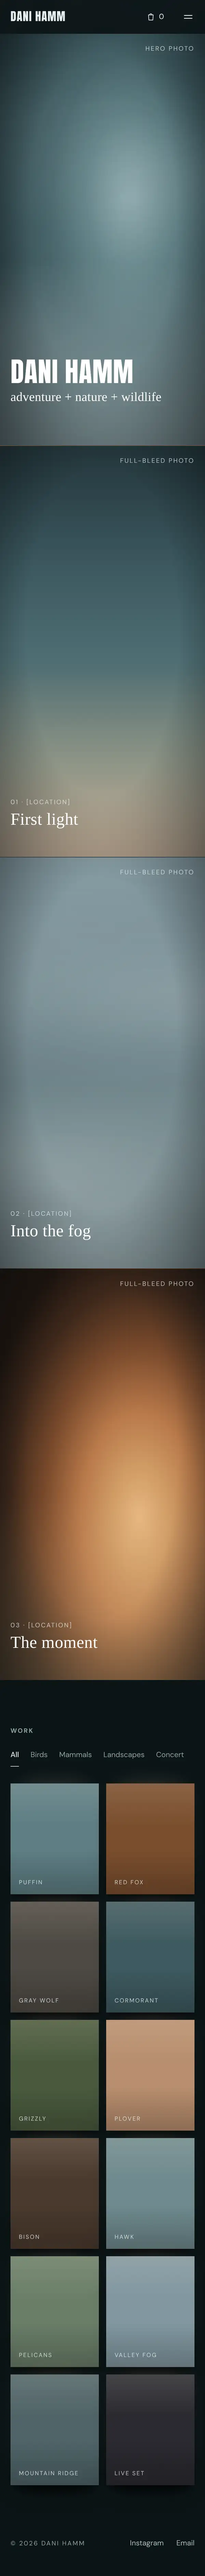
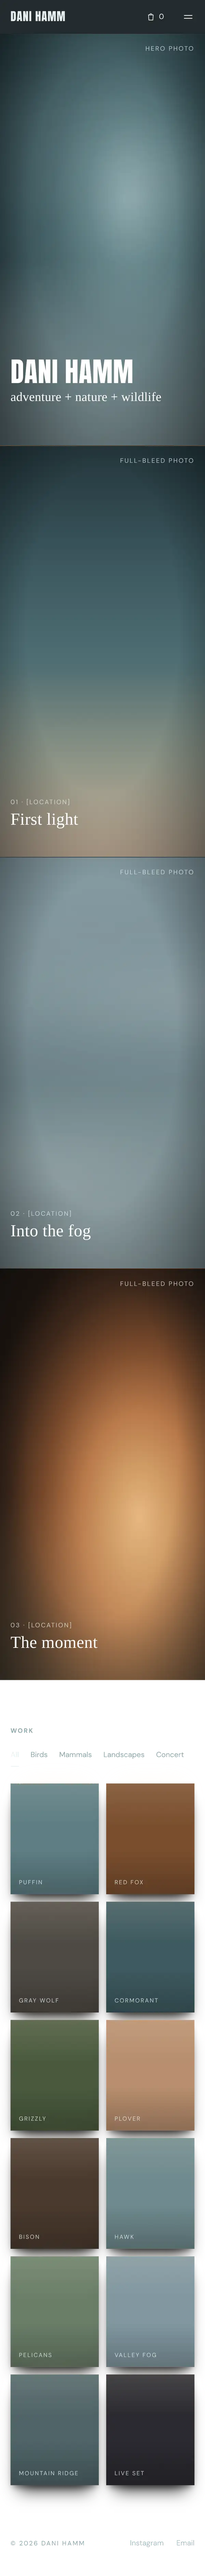
Keep Dani Hamm's fixed background in place in previews
Her site's fog/light background is fixed behind the page, but a single
full-page screenshot only caught it once, so in the preview it scrolled
away and cut off. Now the background is captured on its own and each
page is captured with a see-through background; the preview window,
grid tiles and hero hold the background still while the page scrolls.

Claude-Session: https://claude.ai/code/session_01S1GkKjA7JTsXNm3XxvC6Wo

Changed region(s): [[0.0, 0.6542, 1.0, 1.0]]

diff --git a/index.html b/index.html
@@ -9,12 +9,12 @@
 <meta property="og:url" content="https://b0to1q.github.io/BRANDED-BY-G/">
 <meta property="og:title" content="Branded by G">
 <meta property="og:description" content="Websites for local businesses in Connecticut. Built right. Owned by you.">
-<meta property="og:image" content="https://b0to1q.github.io/BRANDED-BY-G/og.png?v=2">
+<meta property="og:image" content="https://b0to1q.github.io/BRANDED-BY-G/og.png?v=3">
 <meta property="og:image:width" content="1200">
 <meta property="og:image:height" content="630">
 <meta property="og:image:alt" content="Branded by G.">
 <meta name="twitter:card" content="summary_large_image">
-<meta name="twitter:image" content="https://b0to1q.github.io/BRANDED-BY-G/og.png?v=2">
+<meta name="twitter:image" content="https://b0to1q.github.io/BRANDED-BY-G/og.png?v=3">
 <meta name="theme-color" content="#2A2D2B">
 <link rel="preconnect" href="https://fonts.googleapis.com">
 <link rel="preconnect" href="https://fonts.gstatic.com" crossorigin>
@@ -151,6 +151,8 @@ dl.spec a{color:var(--c-acc)}
 .zframe .bar span{margin-left:10px;font-size:12px;color:#B5BABE;background:#33373B;border-radius:5px;padding:4px 12px;white-space:nowrap;overflow:hidden;text-overflow:ellipsis}
 .zvp{flex:1;min-height:0;overflow-y:auto;overscroll-behavior:contain;background:#fff;-webkit-overflow-scrolling:touch}
 .zvp img{display:block;width:100%;height:auto}
+.zvp{background-color:#fff;background-size:cover;background-position:center top;background-repeat:no-repeat}
+.shot.bgdani{background:#0B1416 url(img/v3/bg-dani-d.webp?v=3) center top/cover no-repeat}
 .zframe.phone{width:min(392px,100%);border-radius:34px;padding:4px}
 .zframe.phone .bar{display:none}
 .zframe.phone .zvp{border-radius:30px}
@@ -225,9 +227,9 @@ a:focus-visible{outline:3px solid var(--acc);outline-offset:3px;border-radius:4p
       <p class="where">George Blanchard Jr. · Plantsville, Connecticut</p>
     </div>
     <div class="stage" aria-hidden="true">
-      <div class="br s1"><div class="bar"><i></i><i></i><i></i><span>Hafele Landscaping &amp; Snow Removal</span></div><img src="img/v3/d-hafele-home.webp?v=2" alt=""></div>
-      <div class="br s2"><div class="bar"><i></i><i></i><i></i><span>Dani Hamm — Prints &amp; goods</span></div><img src="img/v3/d-dani-shop.webp?v=2" alt=""></div>
-      <div class="ph s3"><img src="img/v3/m-hafele-home.webp?v=2" alt=""></div>
+      <div class="br s1"><div class="bar"><i></i><i></i><i></i><span>Hafele Landscaping &amp; Snow Removal</span></div><img src="img/v3/d-hafele-home.webp?v=3" alt=""></div>
+      <div class="br s2"><div class="bar"><i></i><i></i><i></i><span>Dani Hamm — Prints &amp; goods</span></div><img src="img/v3/d-dani-shop.webp?v=3" alt="" style="background:#0B1416 url(img/v3/bg-dani-d.webp?v=3) center top/cover no-repeat"></div>
+      <div class="ph s3"><img src="img/v3/m-hafele-home.webp?v=3" alt=""></div>
     </div>
   </div>
 </section>
@@ -238,35 +240,35 @@ a:focus-visible{outline:3px solid var(--acc);outline-offset:3px;border-radius:4p
     <p class="sub">Every page of every site. Tap one to open it full size and scroll through it.</p>
     <div class="grid">
       <button class="tile" type="button" data-i="0" style="--t-bg:#1D3326;--t-ink:#F6F2E6;--t-acc:#CBB373" aria-label="Open Hafele Landscaping, Home page">
-        <span class="shot"><img src="img/v3/t-hafele-home.webp?v=2" alt="" loading="lazy"></span>
+        <span class="shot"><img src="img/v3/t-hafele-home.webp?v=3" alt="" loading="lazy"></span>
         <span class="lbl"><span class="cl">Hafele Landscaping</span><span class="pg">Home</span></span>
       </button>
       <button class="tile" type="button" data-i="1" style="--t-bg:#1D3326;--t-ink:#F6F2E6;--t-acc:#CBB373" aria-label="Open Hafele Landscaping, Services page">
-        <span class="shot"><img src="img/v3/t-hafele-services.webp?v=2" alt="" loading="lazy"></span>
+        <span class="shot"><img src="img/v3/t-hafele-services.webp?v=3" alt="" loading="lazy"></span>
         <span class="lbl"><span class="cl">Hafele Landscaping</span><span class="pg">Services</span></span>
       </button>
       <button class="tile" type="button" data-i="2" style="--t-bg:#1D3326;--t-ink:#F6F2E6;--t-acc:#CBB373" aria-label="Open Hafele Landscaping, About &amp; contact page">
-        <span class="shot"><img src="img/v3/t-hafele-about.webp?v=2" alt="" loading="lazy"></span>
+        <span class="shot"><img src="img/v3/t-hafele-about.webp?v=3" alt="" loading="lazy"></span>
         <span class="lbl"><span class="cl">Hafele Landscaping</span><span class="pg">About &amp; contact</span></span>
       </button>
       <button class="tile" type="button" data-i="3" style="--t-bg:#121A1D;--t-ink:#E9EEF0;--t-acc:#8FB1B8" aria-label="Open Dani Hamm, Home page">
-        <span class="shot"><img src="img/v3/t-dani-home.webp?v=2" alt="" loading="lazy"></span>
+        <span class="shot bgdani"><img src="img/v3/t-dani-home.webp?v=3" alt="" loading="lazy"></span>
         <span class="lbl"><span class="cl">Dani Hamm</span><span class="pg">Home</span></span>
       </button>
       <button class="tile" type="button" data-i="4" style="--t-bg:#121A1D;--t-ink:#E9EEF0;--t-acc:#8FB1B8" aria-label="Open Dani Hamm, Shop page">
-        <span class="shot"><img src="img/v3/t-dani-shop.webp?v=2" alt="" loading="lazy"></span>
+        <span class="shot bgdani"><img src="img/v3/t-dani-shop.webp?v=3" alt="" loading="lazy"></span>
         <span class="lbl"><span class="cl">Dani Hamm</span><span class="pg">Shop</span></span>
       </button>
       <button class="tile" type="button" data-i="5" style="--t-bg:#121A1D;--t-ink:#E9EEF0;--t-acc:#8FB1B8" aria-label="Open Dani Hamm, Product page">
-        <span class="shot"><img src="img/v3/t-dani-product.webp?v=2" alt="" loading="lazy"></span>
+        <span class="shot bgdani"><img src="img/v3/t-dani-product.webp?v=3" alt="" loading="lazy"></span>
         <span class="lbl"><span class="cl">Dani Hamm</span><span class="pg">Product</span></span>
       </button>
       <button class="tile" type="button" data-i="6" style="--t-bg:#121A1D;--t-ink:#E9EEF0;--t-acc:#8FB1B8" aria-label="Open Dani Hamm, About page">
-        <span class="shot"><img src="img/v3/t-dani-about.webp?v=2" alt="" loading="lazy"></span>
+        <span class="shot bgdani"><img src="img/v3/t-dani-about.webp?v=3" alt="" loading="lazy"></span>
         <span class="lbl"><span class="cl">Dani Hamm</span><span class="pg">About</span></span>
       </button>
       <button class="tile" type="button" data-i="7" style="--t-bg:#121A1D;--t-ink:#E9EEF0;--t-acc:#8FB1B8" aria-label="Open Dani Hamm, Contact page">
-        <span class="shot"><img src="img/v3/t-dani-contact.webp?v=2" alt="" loading="lazy"></span>
+        <span class="shot bgdani"><img src="img/v3/t-dani-contact.webp?v=3" alt="" loading="lazy"></span>
         <span class="lbl"><span class="cl">Dani Hamm</span><span class="pg">Contact</span></span>
       </button>
     </div>
@@ -414,7 +416,7 @@ a:focus-visible{outline:3px solid var(--acc);outline-offset:3px;border-radius:4p
 <footer><div class="wrap"><span><strong style="font-family:var(--disp);font-weight:900;font-stretch:125%;letter-spacing:-.035em;color:var(--ink)">Branded by G<span class="dot">.</span></strong> · Built right. Owned by you.</span><span>© 2026 George Blanchard Jr.</span></div></footer>
 <script>
 {
-  const ITEMS = [{"s": "haf", "p": "Home", "k": "hafele-home", "u": "https://b0to1q.github.io/HAFELE/", "a": "Hafele home page: striped lawn hero with a quote request, quick facts, six services with job photos, service area, Verse of the Day and footer"}, {"s": "haf", "p": "Services", "k": "hafele-services", "u": "https://b0to1q.github.io/HAFELE/services.html", "a": "Hafele services page: six services with job photos and quote buttons, then common questions"}, {"s": "haf", "p": "About & contact", "k": "hafele-about", "u": "https://b0to1q.github.io/HAFELE/about.html", "a": "Hafele about and contact page"}, {"s": "dani", "p": "Home", "k": "dani-home", "u": "https://b0to1q.github.io/DANIHAMM/", "a": "Dani Hamm home page: name over a misty hero, three full-screen scenes, then the filterable portfolio"}, {"s": "dani", "p": "Shop", "k": "dani-shop", "u": "https://b0to1q.github.io/DANIHAMM/shop.html", "a": "Dani Hamm shop: prints and goods, eight products"}, {"s": "dani", "p": "Product", "k": "dani-product", "u": "https://b0to1q.github.io/DANIHAMM/product.html?item=mug", "a": "Dani Hamm product page for a mug: pick the photo, options and quantity"}, {"s": "dani", "p": "About", "k": "dani-about", "u": "https://b0to1q.github.io/DANIHAMM/about.html", "a": "Dani Hamm about page"}, {"s": "dani", "p": "Contact", "k": "dani-contact", "u": "https://b0to1q.github.io/DANIHAMM/contact.html", "a": "Dani Hamm contact page with an inquiry form"}];
+  const ITEMS = [{"s": "haf", "p": "Home", "k": "hafele-home", "u": "https://b0to1q.github.io/HAFELE/", "a": "Hafele home page: striped lawn hero with a quote request, quick facts, six services with job photos, service area, Verse of the Day and footer"}, {"s": "haf", "p": "Services", "k": "hafele-services", "u": "https://b0to1q.github.io/HAFELE/services.html", "a": "Hafele services page: six services with job photos and quote buttons, then common questions"}, {"s": "haf", "p": "About & contact", "k": "hafele-about", "u": "https://b0to1q.github.io/HAFELE/about.html", "a": "Hafele about and contact page"}, {"s": "dani", "p": "Home", "k": "dani-home", "u": "https://b0to1q.github.io/DANIHAMM/", "a": "Dani Hamm home page: name over a misty hero, three full-screen scenes, then the filterable portfolio", "g": "dani"}, {"s": "dani", "p": "Shop", "k": "dani-shop", "u": "https://b0to1q.github.io/DANIHAMM/shop.html", "a": "Dani Hamm shop: prints and goods, eight products", "g": "dani"}, {"s": "dani", "p": "Product", "k": "dani-product", "u": "https://b0to1q.github.io/DANIHAMM/product.html?item=mug", "a": "Dani Hamm product page for a mug: pick the photo, options and quantity", "g": "dani"}, {"s": "dani", "p": "About", "k": "dani-about", "u": "https://b0to1q.github.io/DANIHAMM/about.html", "a": "Dani Hamm about page", "g": "dani"}, {"s": "dani", "p": "Contact", "k": "dani-contact", "u": "https://b0to1q.github.io/DANIHAMM/contact.html", "a": "Dani Hamm contact page with an inquiry form", "g": "dani"}];
   const SITES = {"haf": {"name": "Hafele Landscaping", "tag": "Client build", "live": "https://b0to1q.github.io/HAFELE/", "bg": "#1D3326", "ink": "#F6F2E6", "acc": "#CBB373", "rule": "#38533F", "soft": "#C9CFBF"}, "dani": {"name": "Dani Hamm", "tag": "Spec concept", "live": "https://b0to1q.github.io/DANIHAMM/", "bg": "#121A1D", "ink": "#E9EEF0", "acc": "#8FB1B8", "rule": "#2A3639", "soft": "#A3B1B5"}};
   const $ = id => document.getElementById(id);
   const zoom = $('zoom'), frame = $('zframe'), vp = $('zvp'), img = $('zimg'), tabs = $('ztabs'), dots = $('zdots');
@@ -431,11 +433,17 @@ a:focus-visible{outline:3px solid var(--acc);outline-offset:3px;border-radius:4p
   tiles.forEach(t => { const im = t.querySelector('img'); if (im.complete) measure(t); else im.addEventListener('load', () => measure(t)); });
   new ResizeObserver(() => tiles.forEach(measure)).observe(document.querySelector('.grid'));
 
+  const paint = it => {
+    const sz = mode === 'phone' ? 'm' : 'd';
+    img.src = 'img/v3/' + sz + '-' + it.k + '.webp?v=3';
+    vp.style.backgroundImage = it.g ? `url(img/v3/bg-${it.g}-${sz}.webp?v=3)` : 'none';
+    vp.style.backgroundColor = it.g ? '#0B1416' : '#fff';
+  };
   const setMode = m => {
     mode = m;
     zoom.querySelectorAll('.seg button').forEach(b => b.setAttribute('aria-pressed', b.dataset.mode === m ? 'true' : 'false'));
     frame.classList.toggle('phone', m === 'phone');
-    if (cur > -1) { img.src = 'img/v3/' + (m === 'phone' ? 'm-' : 'd-') + ITEMS[cur].k + '.webp?v=2'; vp.scrollTop = 0; }
+    if (cur > -1) { paint(ITEMS[cur]); vp.scrollTop = 0; }
   };
 
   const show = (i, dir) => {
@@ -447,13 +455,13 @@ a:focus-visible{outline:3px solid var(--acc);outline-offset:3px;border-radius:4p
     $('zurl').textContent = it.u.replace('https://', '');
     $('zlive').href = it.u;
     img.alt = it.a;
-    img.src = 'img/v3/' + (mode === 'phone' ? 'm-' : 'd-') + it.k + '.webp?v=2';
+    paint(it);
     vp.scrollTop = 0;
     tabs.innerHTML = ITEMS.map((x, j) => x.s === it.s ? `<button type="button" role="tab" data-j="${j}" aria-selected="${j === cur}">${x.p.replace('&', '&amp;')}</button>` : '').join('');
     tabs.querySelector('[aria-selected=true]')?.scrollIntoView({block: 'nearest', inline: 'nearest'});
     dots.innerHTML = ITEMS.map((x, j) => `<i class="${j === cur ? 'on' : ''}"></i>`).join('');
     if (dir) { frame.classList.remove('slide-l', 'slide-r'); void frame.offsetWidth; frame.classList.add(dir > 0 ? 'slide-l' : 'slide-r'); }
-    [cur - 1, cur + 1].forEach(j => { const x = ITEMS[(j + ITEMS.length) % ITEMS.length]; new Image().src = 'img/v3/' + (mode === 'phone' ? 'm-' : 'd-') + x.k + '.webp?v=2'; });
+    [cur - 1, cur + 1].forEach(j => { const x = ITEMS[(j + ITEMS.length) % ITEMS.length]; new Image().src = 'img/v3/' + (mode === 'phone' ? 'm-' : 'd-') + x.k + '.webp?v=3'; });
   };
 
   const rectClip = r => `inset(${r.top}px ${innerWidth - r.right}px ${innerHeight - r.bottom}px ${r.left}px round 14px)`;
